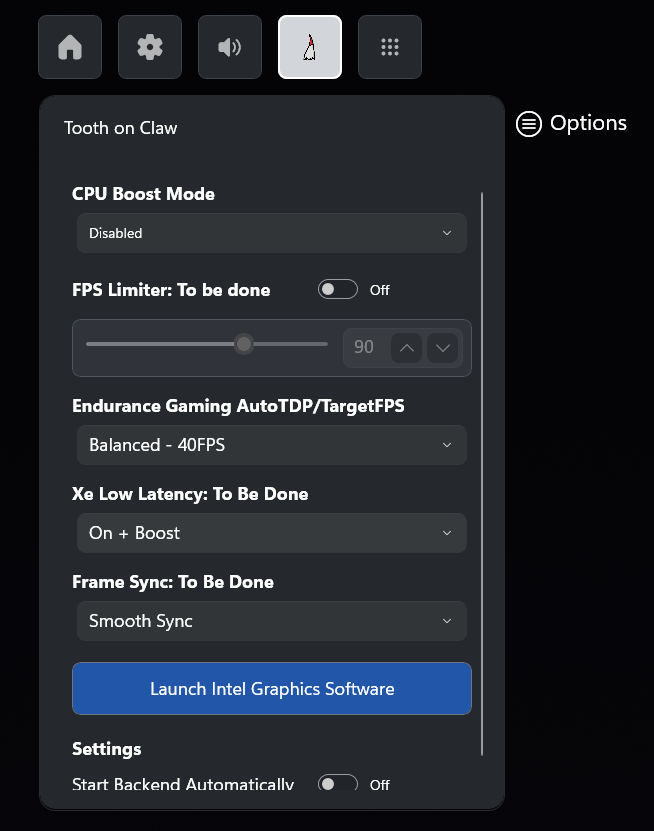
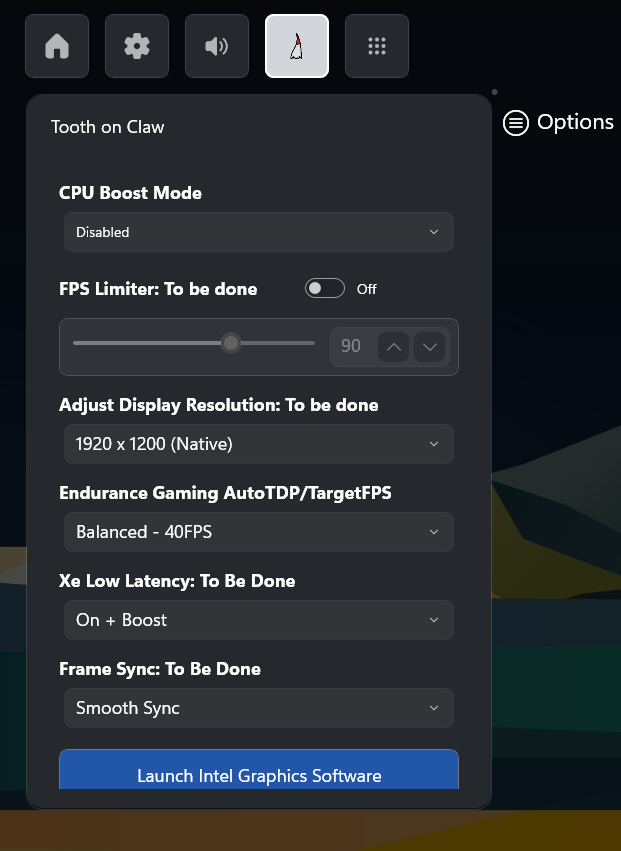
Add Resolution Controls

diff --git a/Tooth/MainPage.xaml b/Tooth/MainPage.xaml
@@ -157,7 +157,43 @@
                 </Border>
             </StackPanel>
 
-            <!-- Endurance Gaming -->
+                <!-- Adjust Display Resolution -->
+                <StackPanel Orientation="Vertical" Spacing="4">
+                    <TextBlock Text="Adjust Display Resolution: To be done"
+                               FontSize="18"
+                               Margin="0,0,0,4" FontWeight="Bold"/>
+                    <ComboBox x:Name="ResolutionComboBox"
+                              HorizontalAlignment="Stretch"
+                              SelectionChanged="ResolutionComboBox_SelectionChanged"
+                              SelectedValue="{Binding Resolution, Mode=TwoWay}"
+                              SelectedValuePath="Tag"
+                              FontSize="18"
+                              Height="40"
+                              Margin="5,0,5,0">
+                        <ComboBoxItem Content="1920 x 1200 (Native)" IsSelected="True">
+                            <ComboBoxItem.Tag>
+                                <x:Double>0</x:Double>
+                            </ComboBoxItem.Tag>
+                        </ComboBoxItem>
+                        <ComboBoxItem Content="1680 x 1050">
+                            <ComboBoxItem.Tag>
+                                <x:Double>1</x:Double>
+                            </ComboBoxItem.Tag>
+                        </ComboBoxItem>
+                        <ComboBoxItem Content="1440 x 900" >
+                            <ComboBoxItem.Tag>
+                                <x:Double>2</x:Double>
+                            </ComboBoxItem.Tag>
+                        </ComboBoxItem>
+                        <ComboBoxItem Content="1280 x 800">
+                            <ComboBoxItem.Tag>
+                                <x:Double>3</x:Double>
+                            </ComboBoxItem.Tag>
+                        </ComboBoxItem>
+                    </ComboBox>
+                </StackPanel>
+
+                <!-- Endurance Gaming -->
             <StackPanel Orientation="Vertical" Spacing="4">
                 <TextBlock Text="Endurance Gaming AutoTDP/TargetFPS"
                                FontSize="18"

diff --git a/Tooth/MainPage.xaml.cs b/Tooth/MainPage.xaml.cs
@@ -59,6 +59,7 @@ namespace Tooth
             Backend.Instance.Send("get-fps-limit");
             Backend.Instance.Send("get-boost");
             Backend.Instance.Send("get-EnduranceGaming");
+            Backend.Instance.Send("get-resolution");
             Backend.Instance.Send("init");
         }
 
@@ -112,6 +113,9 @@ namespace Tooth
                 case "autostart":
                     _model.SetAutoStartVar(bool.Parse(args[1]));
                     break;
+                case "resolution":
+                    _model.SetResolutionVar(double.Parse(args[1]));
+                    break;
             }
         }
 
@@ -140,7 +144,6 @@ namespace Tooth
                     }
                 }
             }
-
         }
 
         private void LowLatencyComboBox_SelectionChanged(object sender, SelectionChangedEventArgs e)
@@ -156,8 +159,6 @@ namespace Tooth
                 // Focus the slider when enabling
                 FPSSlider.Focus(FocusState.Programmatic);
             }
-
-
         }
 
         private void CpuBoostModeSelector_SelectionChanged(object sender, SelectionChangedEventArgs e)
@@ -190,6 +191,22 @@ namespace Tooth
         private void FrameSyncComboBox_SelectionChanged(object sender, SelectionChangedEventArgs e)
         {
             // TODO: handle Xe Frame Sync selection changes
+        }
+
+        private void ResolutionComboBox_SelectionChanged(object sender, SelectionChangedEventArgs e)
+        {
+            if (sender is ComboBox combo && combo.SelectedItem is ComboBoxItem item)
+            {
+                // Extract the Tag (0, 1, or 2)
+                if (item.Tag is double tagValue)
+                {
+                    if (DataContext is MainPageModelWrapper model)
+                    {
+                        _model.Resolution = tagValue;
+                        _model.SetResolutionVar(tagValue);
+                    }
+                }
+            }
         }
     }
 }

diff --git a/Tooth/MainPage.Model.cs b/Tooth/MainPage.Model.cs
@@ -56,6 +56,23 @@ namespace Tooth
             }
         }
 
+        public double Resolution
+        {
+            get { lock (_base) { return _base.resolution; } }
+            set
+            {
+                lock (_base)
+                {
+                    if (_base.resolution != value)
+                    {
+                        _base.resolution = value;
+                        _base.Notify("Resolution");
+                        Backend.Instance.Send($"set-resolution {value}");
+                    }
+                }
+            }
+        }
+
         public double EnduranceGaming
         {
             get { lock (_base) { return _base.enduranceGaming; } }
@@ -93,6 +110,19 @@ namespace Tooth
                     _base.boostMode = value;
                     Backend.Instance.Send($"set-boost {value}");
                     _base.Notify("BoostMode");
+                }
+            }
+        }
+
+        public void SetResolutionVar(double value)
+        {
+            lock (_base)
+            {
+                if (_base.resolution != value)
+                {
+                    _base.resolution = value;
+                    Backend.Instance.Send($"set-resolution {value}");
+                    _base.Notify("Resolution");
                 }
             }
         }
@@ -197,6 +227,7 @@ namespace Tooth
         public double fpsMax = 120;
         public double boostMode = 2; // 0: off, 1: enabled, 2: agressive
         public double enduranceGaming = 0; // 0: off, 1: Performance, 2: Balanced, 3: Battery
+        public double resolution = 0; // 0: 1920x1200, 1: 1680 x 1050, 2: 1440 x 900, 3: 1280 x 800
         public bool autoStart = false;
         public bool isConnected = false;
 
